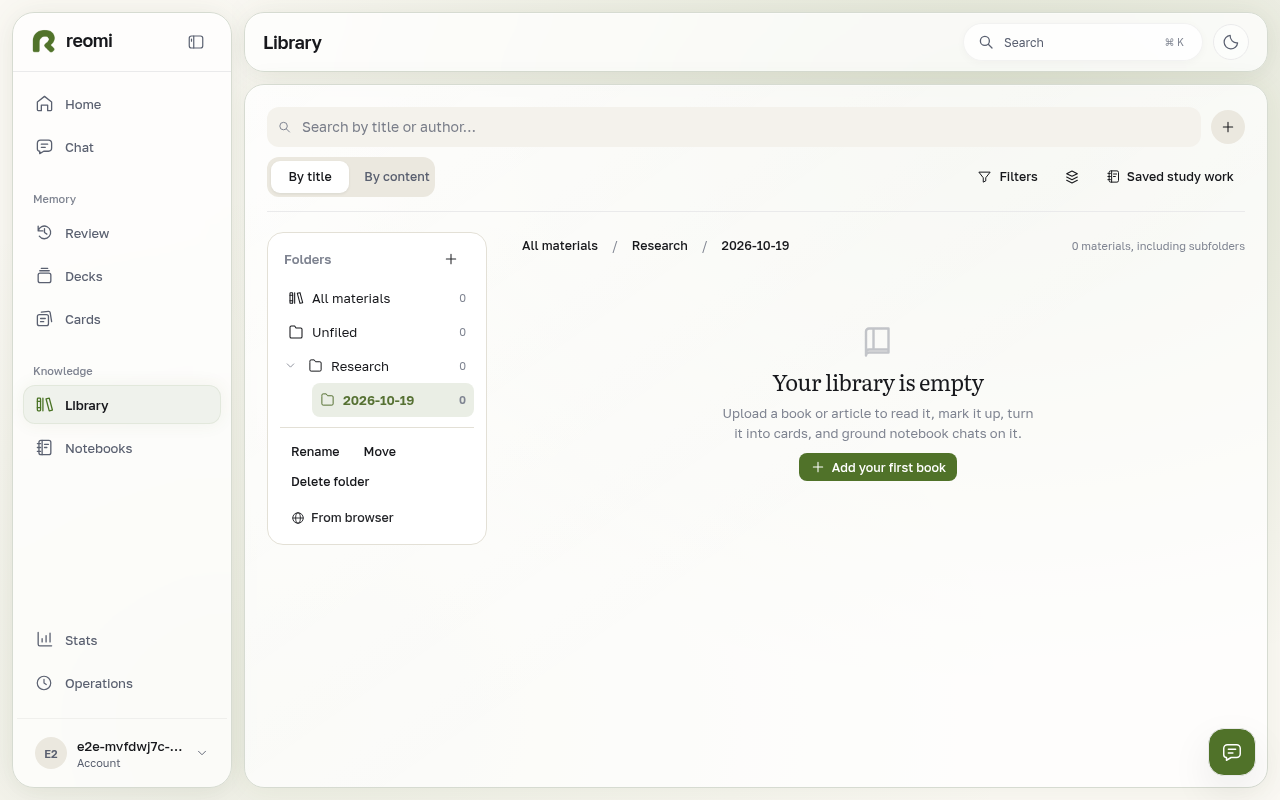
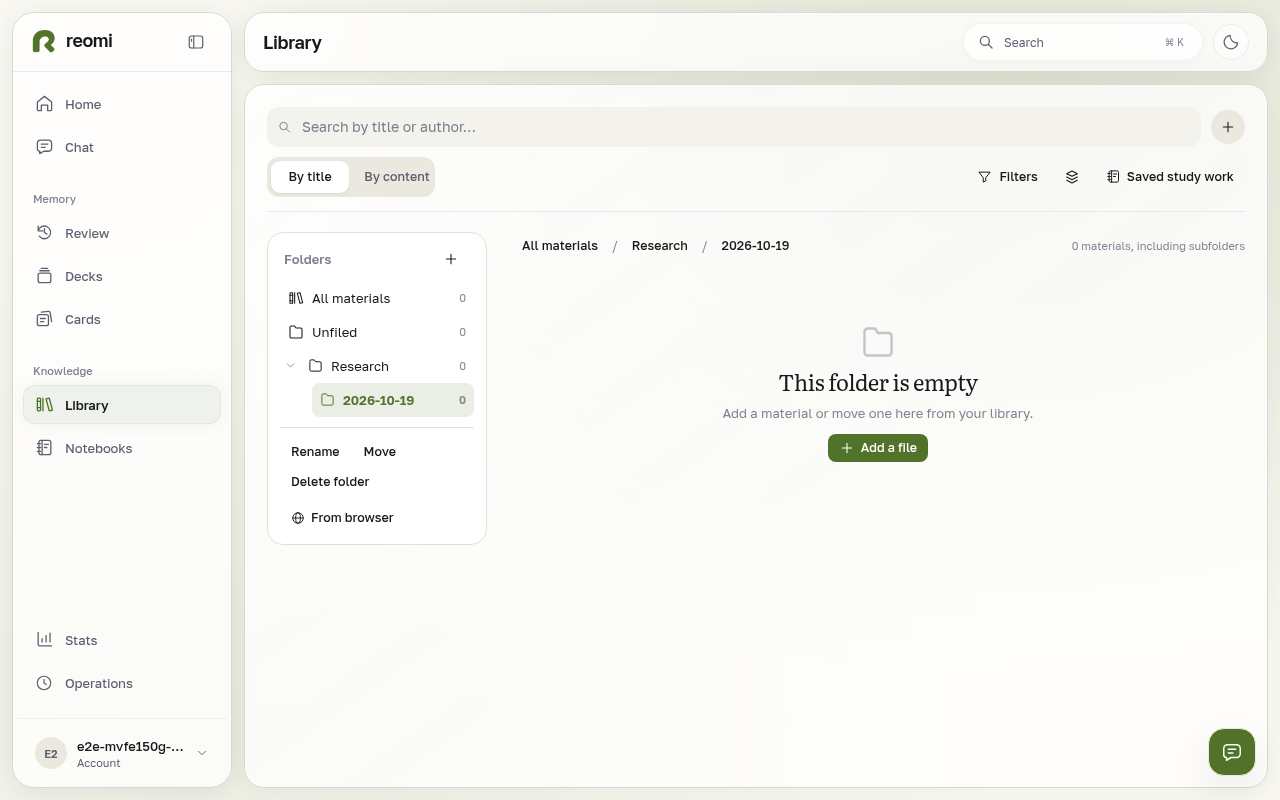
fix(library): explain empty folder and unfiled views

Changed region(s): [[0.5625, 0.4062, 0.8125, 0.625], [0.0938, 0.9062, 0.125, 0.9375]]

diff --git a/apps/web/src/components/screens/library.tsx b/apps/web/src/components/screens/library.tsx
@@ -647,12 +647,12 @@ export const LibraryScreen = () => {
           </div>
         ) : (
           <div className="nn-empty-state" style={{ paddingTop: 56 }}>
-            <span className="nn-empty-state-icon"><NNIcon name="book" size={36} color="var(--text-dim)" /></span>
+            <span className="nn-empty-state-icon"><NNIcon name={folderId ? "folder" : "book"} size={36} color="var(--text-dim)" /></span>
             <h3 className="nn-h1" style={{ fontSize: 22 }}>
-              {t('library.empty.title')}
+              {t(folderId ? (folderId === 'unfiled' ? 'library.folders.emptyUnfiled' : 'library.folders.emptyTitle') : 'library.empty.title')}
             </h3>
-            <p className="nn-empty-state-hint" style={{ maxWidth: 320 }}>{t('library.empty.hint')}</p>
-            <NNBtn variant="primary" size="sm" icon="plus" onClick={onPickFiles}>{t('library.empty.cta')}</NNBtn>
+            <p className="nn-empty-state-hint" style={{ maxWidth: 320 }}>{t(folderId ? 'library.folders.emptyHint' : 'library.empty.hint')}</p>
+            <NNBtn variant="primary" size="sm" icon="plus" onClick={onPickFiles}>{t(folderId ? 'library.folders.emptyAdd' : 'library.empty.cta')}</NNBtn>
           </div>
         )
       ) : view === 'grid' ? (

diff --git a/e2e/library-folders.e2e.ts b/e2e/library-folders.e2e.ts
@@ -55,6 +55,7 @@ test('library folders preserve materials through nested, single and batch organi
     await expect(folderNav.getByRole('button', { name: /^All materials/ })).toBeVisible();
     const rootId = await createFolder(rootName);
     await createFolder('2026-10-19');
+    await expect(page.getByRole('heading', { name: 'This folder is empty', exact: true })).toBeVisible();
     await shot('date-name');
     await page.locator('.reomi-folder-actions').getByRole('button', { name: 'Rename', exact: true }).click();
     const renameInput = page.getByRole('dialog').getByRole('textbox', { name: 'Folder name', exact: true });

diff --git a/apps/web/src/lib/messages/ru/library.ts b/apps/web/src/lib/messages/ru/library.ts
@@ -3,6 +3,10 @@
 
 const library = {
   folders: {
+    "emptyTitle": "В папке пока пусто",
+    "emptyUnfiled": "Нет материалов без папки",
+    "emptyHint": "Добавьте материал или перенесите сюда материалы из библиотеки.",
+    "emptyAdd": "Добавить файл",
     "title": "Папки",
     "navigation": "Папки библиотеки",
     "breadcrumbs": "Путь к папке",

diff --git a/apps/web/src/lib/messages/en/library.ts b/apps/web/src/lib/messages/en/library.ts
@@ -9,6 +9,10 @@
 
 const library = {
   folders: {
+    "emptyTitle": "This folder is empty",
+    "emptyUnfiled": "No unfiled materials",
+    "emptyHint": "Add a material or move one here from your library.",
+    "emptyAdd": "Add a file",
     "title": "Folders",
     "navigation": "Library folders",
     "breadcrumbs": "Folder path",

diff --git a/openspec/changes/archive/2026-10-19-add-library-folders/acceptance.md b/openspec/changes/archive/2026-10-19-add-library-folders/acceptance.md
@@ -28,7 +28,7 @@ Semantic search is unavailable locally without an embedding provider; scoped ret
 
 ## Closure hardening
 
-PR #97 also preserves literal folder names in the typed client. The existing client's automatic date revival converted names such as `2026-10-19` into Date objects and could crash the tree. The folder API now uses the existing text-preserving client. A regression unit test covers date-only and ISO timestamp names; the real browser workflow creates and displays a date-named folder before renaming it. Its additional inspected screenshot is `docs/library-folders/date-name.png`.
+PR #97 also preserves literal folder names in the typed client. The existing client's automatic date revival converted names such as `2026-10-19` into Date objects and could crash the tree. The folder API now uses the existing text-preserving client. A regression unit test covers date-only and ISO timestamp names; the real browser workflow creates and displays a date-named folder before renaming it. Empty folder and unfiled scopes use their own messages and an explicit add-file action. The browser asserts the folder-specific empty heading. Its additional inspected screenshot is `docs/library-folders/date-name.png`.
 
 The closure PR's required CI verifies this final tree in addition to the original release evidence above.
 
